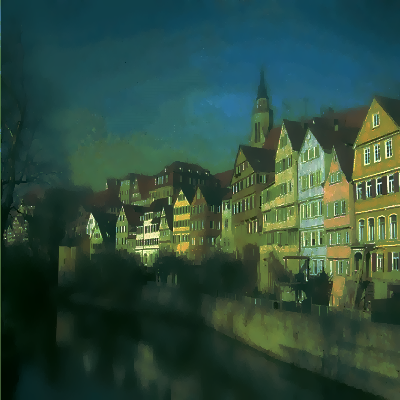
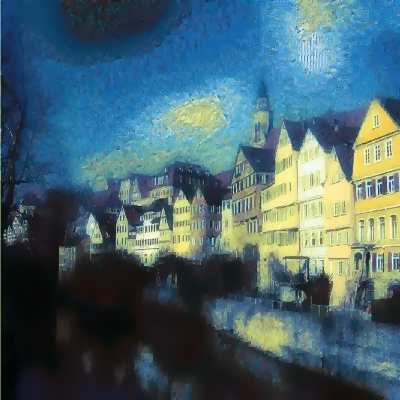
some externel arguments for fast tuning

diff --git a/src/style_transfer.py b/src/style_transfer.py
@@ -8,7 +8,7 @@ from data_loader.loader import DataLoader
 from ml_models import irls, pca
 from utils import color_transfer, denoise, utils
 
-def style_transfer(content_path, style_path, img_size, num_res, patch_sizes, sub_gaps, irls_iter, alg_iter, robust_stat):
+def style_transfer(content_path, style_path, img_size, num_res, patch_sizes, sub_gaps, irls_iter, alg_iter, robust_stat, content_weight, segmentation_mode, color_transfer_mode, denoise_sigma_s, denoise_sigma_r, denoise_iter):
     """ 
     The function to perform the main logic of style transfer,
     The main stylization loop. 
@@ -20,7 +20,13 @@ def style_transfer(content_path, style_path, img_size, num_res, patch_sizes, sub
     num_res (int): Number of resolution layers for subsampling
     patch_sizes (list[int]): A list of all patch sizes to work with
     irls_iter (int): Number of IRLS algorithm iterations
-  
+    content_weight (float): Weight of content during fusion
+    segmentation_mode (int): Edge Segmentation method to be used
+    color_transfer_mode (int): Color Transfer method to be used
+    denoise_sigma_s (float): sigma_s constant for denoise
+    denoise_sigma_r (float): sigma_r constant for denoise
+    denoise_iter (int): number of iterations for denoise
+
     Returns: 
     ndarray: stylized image
   
@@ -28,12 +34,15 @@ def style_transfer(content_path, style_path, img_size, num_res, patch_sizes, sub
     ### data loading ...
     print("Initializing Dataloader ...")
     data_gen = DataLoader(img_size)
-    data_gen.prepare_data(content_path, style_path)
+    data_gen.prepare_data(content_path, style_path, segmentation_mode)
 
     ### initialization ...
     ## call color tranfer algorithm on content image
     print("Performing Color Transfer ...")
-    adapt_content = color_transfer.HM_color_transfer(data_gen.style, data_gen.content)
+    if (color_transfer_mode==0):
+        adapt_content = color_transfer.HM_color_transfer(data_gen.style, data_gen.content)
+    else:
+        adapt_content = color_transfer.color_transfer(data_gen.style, data_gen.content)
     
     ## build gaussian pyramid
     print("Building Pyramids ...")
@@ -97,13 +106,16 @@ def style_transfer(content_path, style_path, img_size, num_res, patch_sizes, sub
                 X = irls.IRLS(X, X_patches, style_patches, neighbors, proj_matrix, patch_sizes[p_index], sub_gaps[p_index], irls_iter, robust_stat)
 
                 # content fusion
-                X = (1.0 / (15.0 * current_seg + 1)) * (X + (15.0 * current_seg * current_content))
+                X = (1.0 / (content_weight * current_seg + 1)) * (X + (content_weight * current_seg * current_content))
 
                 # color transfer
-                X = color_transfer.HM_color_transfer(current_style, X)
+                if (color_transfer_mode==0):
+                    X = color_transfer.HM_color_transfer(current_style, X)
+                else:
+                    X = color_transfer.color_transfer(current_style, X)    
 
                 # denoise
-                X[:original_size, :original_size, :] = denoise.denoise_image(X[:original_size, :original_size, :], sigma_s=15, sigma_r=0.17, iterations=3)
+                X[:original_size, :original_size, :] = denoise.denoise_image(X[:original_size, :original_size, :], sigma_s=denoise_sigma_s, sigma_r=denoise_sigma_r, iterations=denoise_iter)
 
             X = X[:original_size, :original_size, :]  # back to the original size
 

diff --git a/main.py b/main.py
@@ -7,6 +7,7 @@ def main():
     The main function (argument parsing to be replaced by GUI input, if applicable)
     """
     argparser = argparse.ArgumentParser(description=__doc__)
+    # general arguments
     argparser.add_argument(
         '-c', '--content_path',
         metavar='C',
@@ -24,6 +25,7 @@ def main():
         default=400,
         help='maximum image size'
     ) 
+    # fundamental arguments
     argparser.add_argument(
         '-nr', '--num_res',
         metavar='NR',
@@ -42,6 +44,7 @@ def main():
         default=[28,18,8,5,3],
         help='subsampling gaps to be used'
     )
+    # learning parameters
     argparser.add_argument(
         '-ii', '--irls_iter',
         metavar='II',
@@ -60,9 +63,50 @@ def main():
         default=0.8,
         help='robust statistics value'
     )
+    argparser.add_argument(
+        '-cw', '--content_weight',
+        metavar='CW',
+        default=5.0,
+        help='content weight during fusion'
+    )
+    # segmentation arguments
+    argparser.add_argument(
+        '-sm', '--segmentation_mode',
+        metavar='SM',
+        default=2,
+        help='edge segmentation method to be used'
+    )
+    # color transfer arguments
+    argparser.add_argument(
+        '-ctm', '--color_transfer_mode',
+        metavar='CTM',
+        default=0,
+        help='color transfer method to be used'
+    )
+    # denoise parameters
+    argparser.add_argument(
+        '-dss', '--denoise_sigma_s',
+        metavar='DSS',
+        default=20,
+        help='sigma_s for denoise'
+    )
+    argparser.add_argument(
+        '-dsr', '--denoise_sigma_r',
+        metavar='DSR',
+        default=0.17,
+        help='sigma_r for denoise'
+    )
+    argparser.add_argument(
+        '-di', '--denoise_iter',
+        metavar='DI',
+        default=1,
+        help='number of iterations for denoise'
+    )
     args = argparser.parse_args()
+    
     style_transfer(args.content_path, args.style_path, args.img_size, args.num_res, args.patch_sizes, args.sub_gaps, args.irls_iter, \
-    args.alg_iter, args.robust_stat)
+    args.alg_iter, args.robust_stat, args.content_weight, args.segmentation_mode, args.color_transfer_mode, args.denoise_sigma_s,    \
+    args.denoise_sigma_r, args.denoise_iter)
 
 if __name__ == '__main__':
     main()

diff --git a/data_loader/loader.py b/data_loader/loader.py
@@ -57,13 +57,13 @@ class DataLoader:
         else:
             raise Exception('Format incompatible!')    
 
-    def segment_content(self):
+    def segment_content(self, segmentation_mode):
         """ 
         The function to call the segmentation algorithm on content image. 
         """
-        self.seg_mask = SegmentationMask(self.content)
+        self.seg_mask = SegmentationMask(self.content, version=segmentation_mode)
 
-    def prepare_data(self, content_path, style_path):
+    def prepare_data(self, content_path, style_path, segmentation_mode):
         """ 
         The function to encapsulate all the data loader functionalities. 
   
@@ -73,7 +73,7 @@ class DataLoader:
         """
         self.load_content(content_path)
         self.load_style(style_path)
-        self.segment_content()
+        self.segment_content(segmentation_mode)
         self.content = (self.content / 255.0).astype(np.float32)
         self.style = (self.style / 255.0).astype(np.float32)
         self.seg_mask = self.seg_mask.astype(np.float32)
